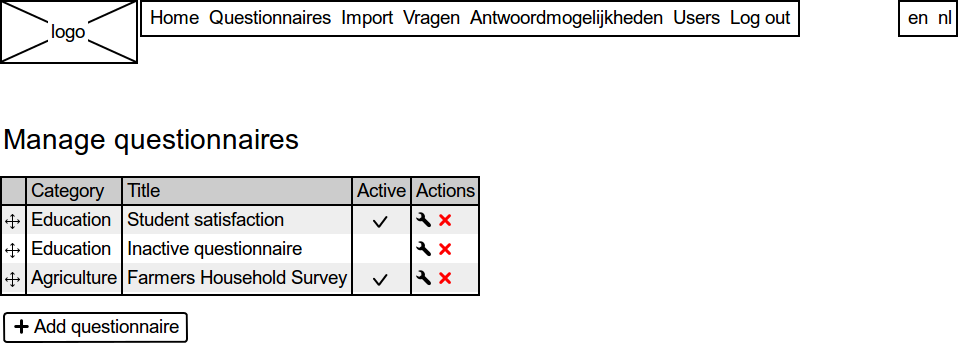
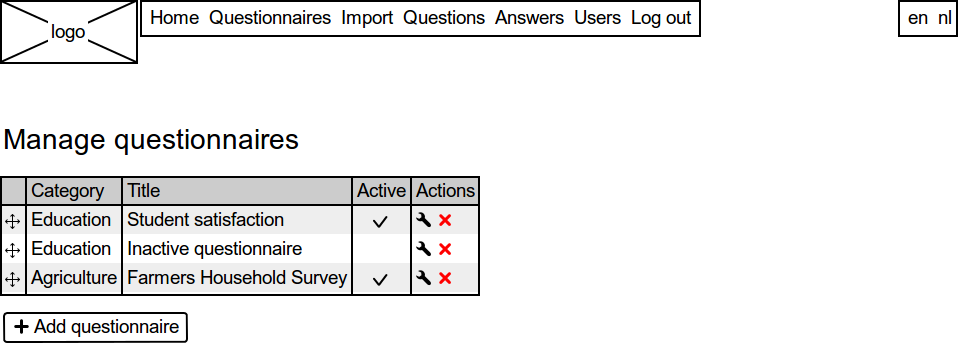
Update wireframes from source code

Changed region(s): [[0.4238, 0.0, 0.8476, 0.1166]]

diff --git a/wireframes/index_files/story.js b/wireframes/index_files/story.js
@@ -8,11 +8,11 @@ var story = {
    "image": "1-login.png",
    "links": [
     {
-     "page": 4,
+     "page": 8,
      "rect": [
       21,
       313,
-      110,
+      90,
       344
      ]
     },
@@ -24,6 +24,33 @@ var story = {
       352,
       362
      ]
+    },
+    {
+     "page": 0,
+     "rect": [
+      145,
+      0,
+      204,
+      37
+     ]
+    },
+    {
+     "page": 7,
+     "rect": [
+      898,
+      0,
+      933,
+      37
+     ]
+    },
+    {
+     "page": 7,
+     "rect": [
+      932,
+      0,
+      958,
+      37
+     ]
     }
    ]
   },
@@ -32,64 +59,93 @@ var story = {
    "height": 269,
    "width": 958,
    "image": "2-login-error.png",
-   "links": [{
-    "page": 0,
-    "rect": [
-     26,
-     196,
-     268,
-     269
-    ]
-   }]
+   "links": [
+    {
+     "page": 0,
+     "rect": [
+      145,
+      0,
+      204,
+      37
+     ]
+    },
+    {
+     "page": 7,
+     "rect": [
+      898,
+      0,
+      933,
+      37
+     ]
+    },
+    {
+     "page": 7,
+     "rect": [
+      932,
+      0,
+      958,
+      37
+     ]
+    },
+    {
+     "page": 0,
+     "rect": [
+      26,
+      196,
+      268,
+      269
+     ]
+    }
+   ]
   },
   {
    "title": "add-questionnaire",
-   "height": 457,
-   "width": 617,
+   "height": 497,
+   "width": 641,
    "image": "3-add-questionnaire.png",
    "links": [
     {
      "page": 4,
      "rect": [
-      34,
-      409,
-      110,
-      440
+      58,
+      449,
+      134,
+      480
      ]
     },
     {
      "page": 4,
      "rect": [
-      127,
-      409,
-      188,
-      440
+      151,
+      449,
+      212,
+      480
      ]
     }
    ]
   },
   {
    "title": "edit-questionnaire-properties",
-   "height": 457,
-   "width": 617,
+   "height": 497,
+   "width": 641,
    "image": "4-edit-questionnaire-properties.png",
    "links": [
     {
      "page": 4,
      "rect": [
-      34,
-      409,
-      110,
-      440
+      58,
+      449,
+      134,
+      480
      ]
     },
     {
      "page": 4,
      "rect": [
-      127,
-      409,
-      188,
-      440
+      151,
+      449,
+      212,
+      480
      ]
     }
    ]
@@ -128,11 +184,47 @@ var story = {
      ]
     },
     {
+     "page": 8,
+     "rect": [
+      145,
+      0,
+      204,
+      37
+     ]
+    },
+    {
      "page": 4,
      "rect": [
       204,
       0,
       336,
+      37
+     ]
+    },
+    {
+     "page": 0,
+     "rect": [
+      626,
+      0,
+      696,
+      37
+     ]
+    },
+    {
+     "page": 7,
+     "rect": [
+      898,
+      0,
+      933,
+      37
+     ]
+    },
+    {
+     "page": 7,
+     "rect": [
+      932,
+      0,
+      958,
       37
      ]
     },
@@ -217,11 +309,47 @@ var story = {
      ]
     },
     {
+     "page": 8,
+     "rect": [
+      145,
+      0,
+      204,
+      37
+     ]
+    },
+    {
      "page": 4,
      "rect": [
       204,
       0,
       336,
+      37
+     ]
+    },
+    {
+     "page": 0,
+     "rect": [
+      626,
+      0,
+      696,
+      37
+     ]
+    },
+    {
+     "page": 7,
+     "rect": [
+      898,
+      0,
+      933,
+      37
+     ]
+    },
+    {
+     "page": 7,
+     "rect": [
+      932,
+      0,
+      958,
       37
      ]
     }
@@ -230,9 +358,69 @@ var story = {
   {
    "title": "hint-drag-to-move",
    "height": 120,
-   "width": 286,
+   "width": 301,
    "image": "7-hint-drag-to-move.png",
    "links": []
+  },
+  {
+   "title": "hint-switch-interface-language",
+   "height": 185,
+   "width": 364,
+   "image": "8-hint-switch-interface-language.png",
+   "links": []
+  },
+  {
+   "title": "home",
+   "height": 200,
+   "width": 958,
+   "image": "9-home.png",
+   "links": [
+    {
+     "page": 8,
+     "rect": [
+      145,
+      0,
+      205,
+      39
+     ]
+    },
+    {
+     "page": 4,
+     "rect": [
+      205,
+      0,
+      345,
+      39
+     ]
+    },
+    {
+     "page": 0,
+     "rect": [
+      647,
+      0,
+      723,
+      39
+     ]
+    },
+    {
+     "page": 7,
+     "rect": [
+      898,
+      0,
+      933,
+      37
+     ]
+    },
+    {
+     "page": 7,
+     "rect": [
+      932,
+      0,
+      958,
+      37
+     ]
+    }
+   ]
   }
  ],
  "highlightLinks": false
